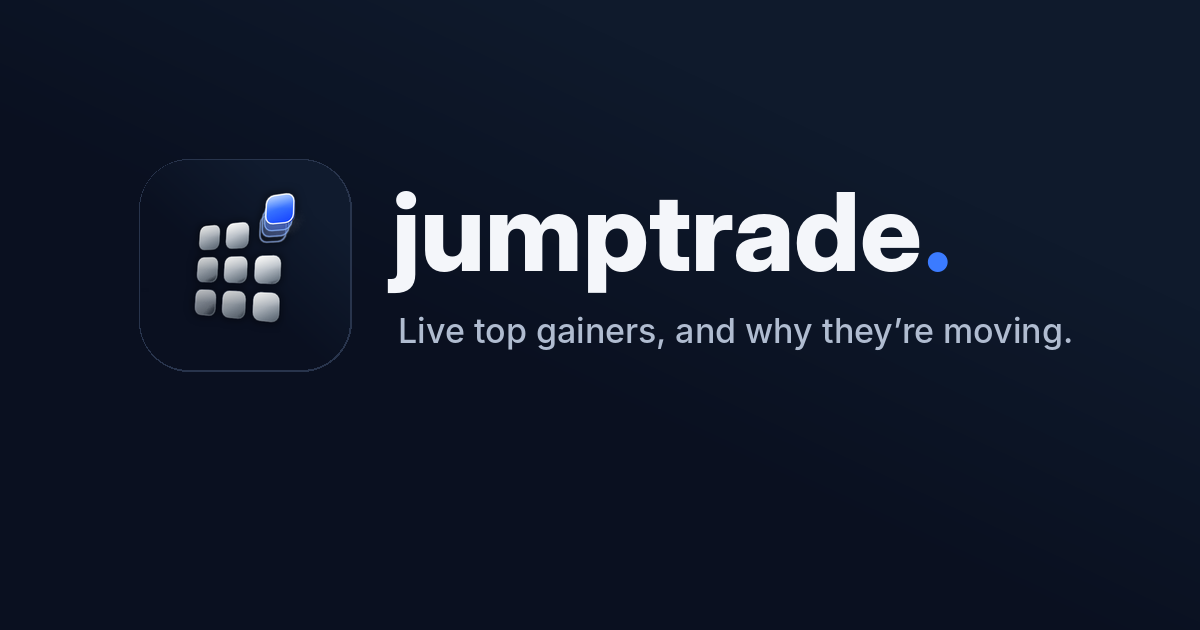
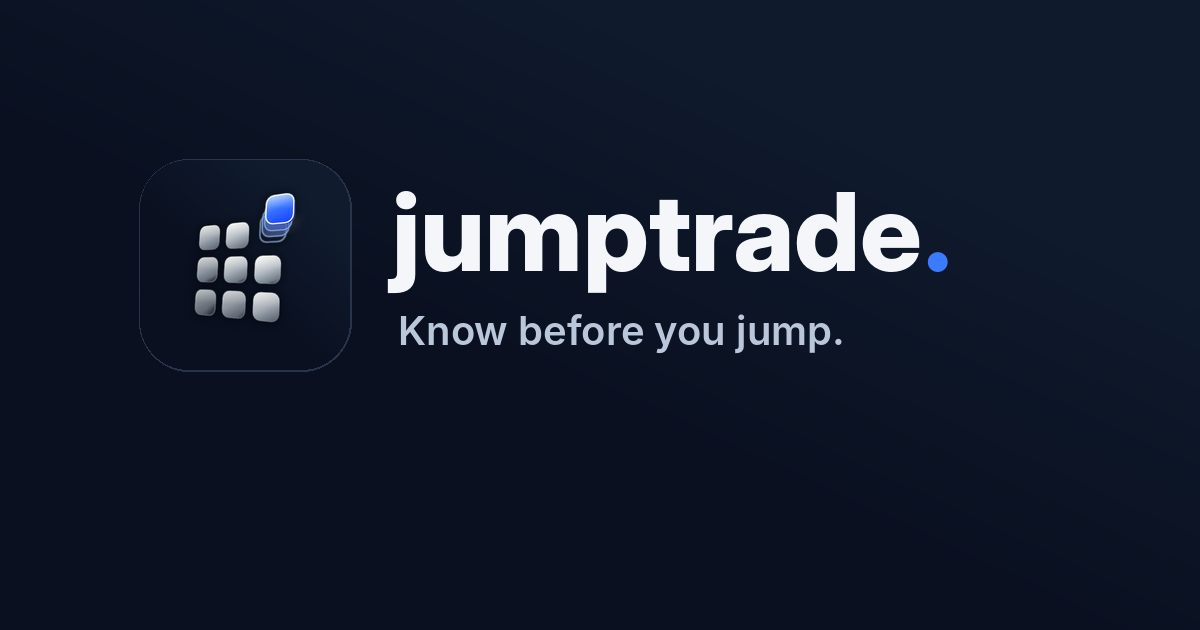
Slogan: Know before you jump.
Claude-Session: https://claude.ai/code/session_01AH9n8DoqYqXCswdWXtFJ9D

Changed region(s): [[0.3392, 0.4825, 0.8942, 0.573]]

diff --git a/web/index.html b/web/index.html
@@ -2,9 +2,9 @@
 <html lang="en"><head><meta charset="utf-8"><meta name="viewport" content="width=device-width,initial-scale=1">
 <title>jumptrade.</title>
 <link rel="preconnect" href="https://fonts.googleapis.com"><link href="https://fonts.googleapis.com/css2?family=Inter+Tight:wght@300;400;500;600;700;800&display=swap" rel="stylesheet">
-<meta name="description" content="Live top gainers, and why they’re moving.">
+<meta name="description" content="Know before you jump.">
 <meta property="og:title" content="jumptrade.">
-<meta property="og:description" content="Live top gainers, and why they’re moving.">
+<meta property="og:description" content="Know before you jump.">
 <meta property="og:image" content="https://jumptrade.app/og.png">
 <meta property="og:url" content="https://jumptrade.app/">
 <meta property="og:type" content="website">
